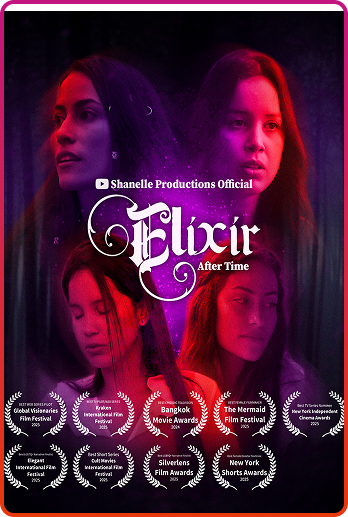
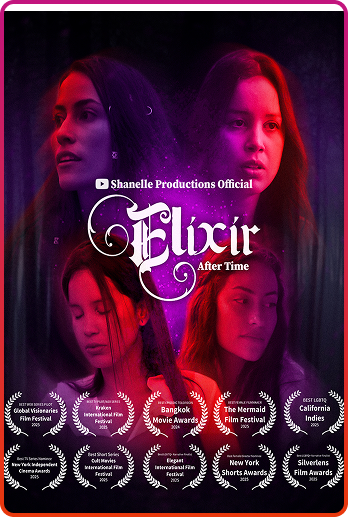
Actualiza imagen de Elixir y agrega nuevo premio a our-originals

Changed region(s): [[0.8046, 0.7427, 1.0, 0.9594], [0.4023, 0.8356, 0.6034, 0.9594], [0.0, 0.8356, 0.2011, 0.9594]]

diff --git a/src/data/our-originals.ts b/src/data/our-originals.ts
@@ -72,6 +72,14 @@ export const ourOriginalSeries: OurOriginalSeries[] = [
         },
       },
       {
+        image: FirstPlaceMedalIcon,
+        imageAlt: "First Place Medal Icon Elixir: After Time",
+        text: {
+          en: "Best LGBTQ – California Indies Festival (2025)",
+          es: "Best LGBTQ – California Indies Festival (2025)",
+        },
+      },
+      {
         image: ClapperboardIcon,
         imageAlt: "Clapperboard Icon Elixir: After Time",
         text: {
